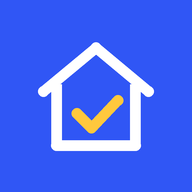
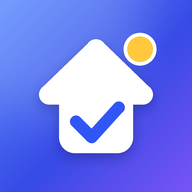
Yeni uygulama simgesi
Claude-Session: https://claude.ai/code/session_015YUPRWujgFtC9T95g8Cedn

diff --git a/index.html b/index.html
@@ -47,7 +47,7 @@ main{flex:1;min-width:0;padding-left:max(16px,env(safe-area-inset-left,0px));pad
   main{padding-block:28px 40px}
 }
 .brand{display:flex;align-items:center;gap:10px}
-.brand-mark{width:34px;height:34px;border-radius:10px;background:var(--accent);display:grid;place-items:center;color:var(--accent-ink)}
+.brand-mark{width:34px;height:34px;border-radius:10px;background:linear-gradient(135deg,#5C8CFF 0%,#364AE6 55%,#7A54F6 100%);display:grid;place-items:center;color:#fff;box-shadow:0 3px 10px rgba(54,74,230,.28)}
 .brand-name{font-family:var(--f-display);font-weight:800;font-size:17px;line-height:1.1}
 .brand-sub{font-size:12px;color:var(--ink-3)}
 

diff --git a/sw.js b/sw.js
@@ -1,5 +1,5 @@
 // Aile Görev Panosu: internetsiz açılış için basit önbellek.
-const SURUM = "agp-20261102232236";
+const SURUM = "agp-20261102232443";
 const DOSYALAR = ["./", "index.html", "fb-config.js", "fb/firebase-app-compat.js", "fb/firebase-firestore-compat.js",
   "manifest.webmanifest", "ikon/ikon-192.png", "ikon/ikon-512.png", "ikon/apple-touch-icon.png", "ikon/favicon-32.png"];
 self.addEventListener("install", e => { e.waitUntil(caches.open(SURUM).then(c => c.addAll(DOSYALAR)).then(() => self.skipWaiting())); });
